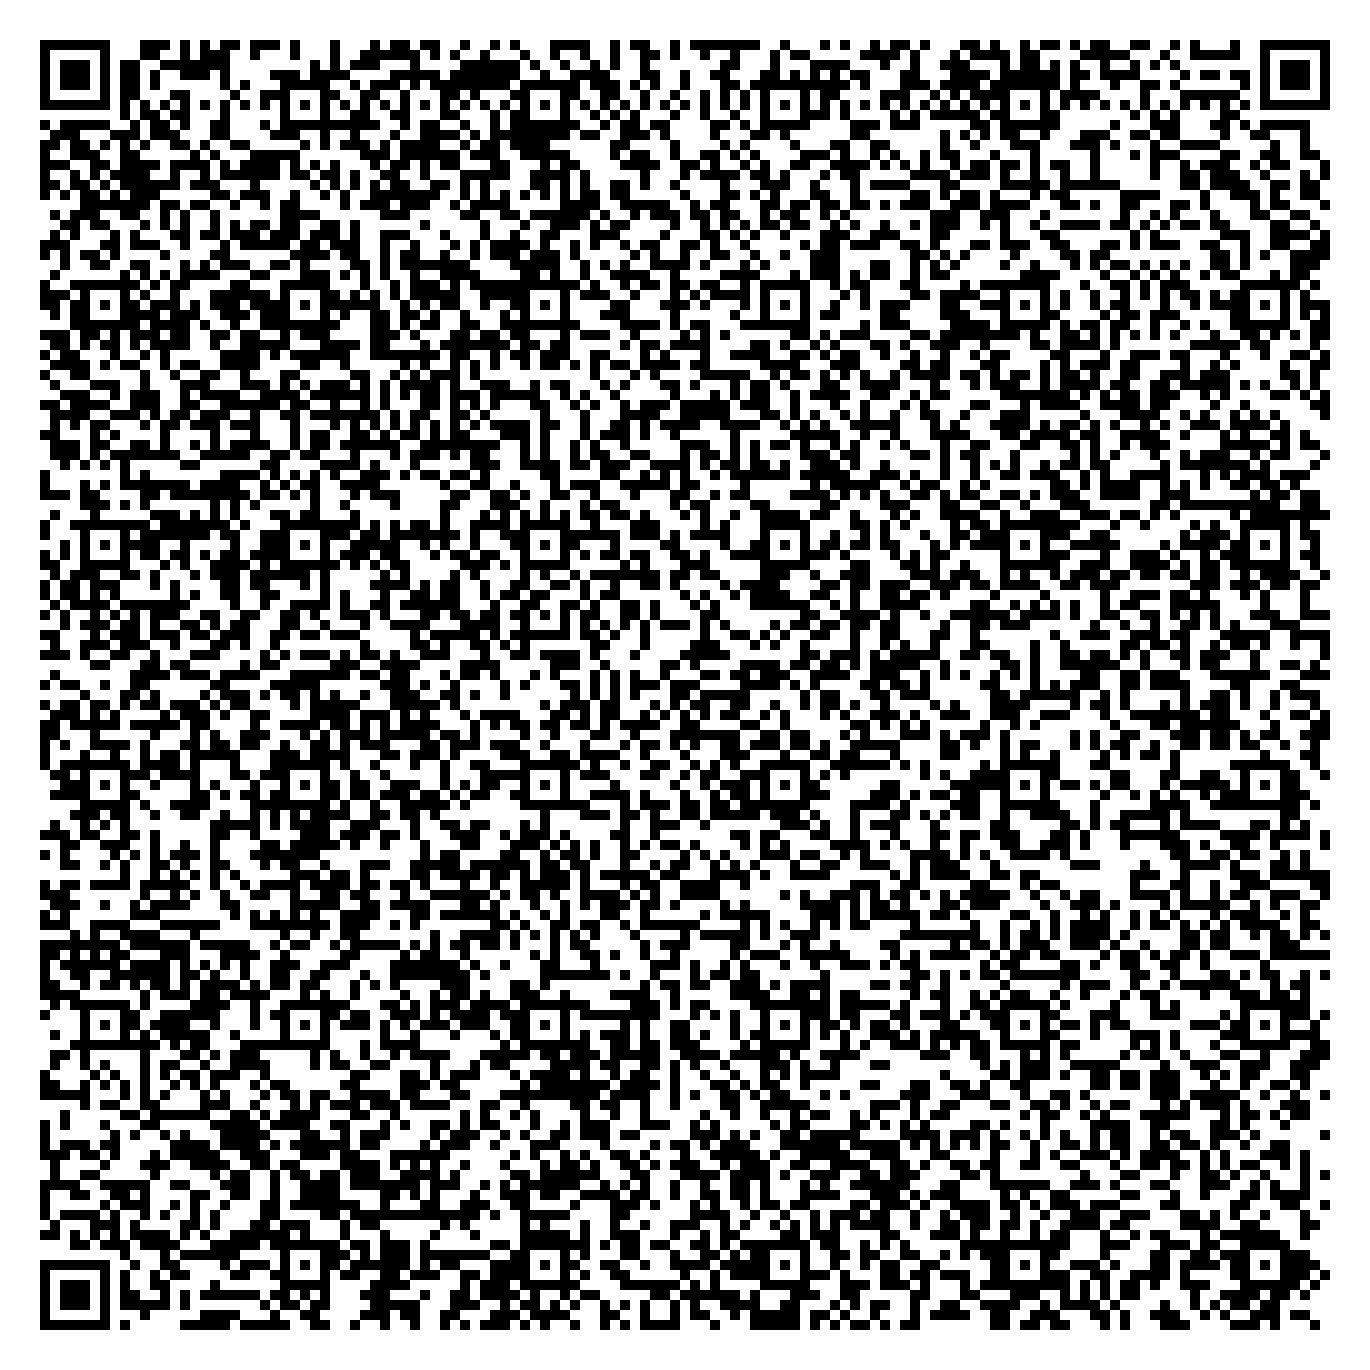
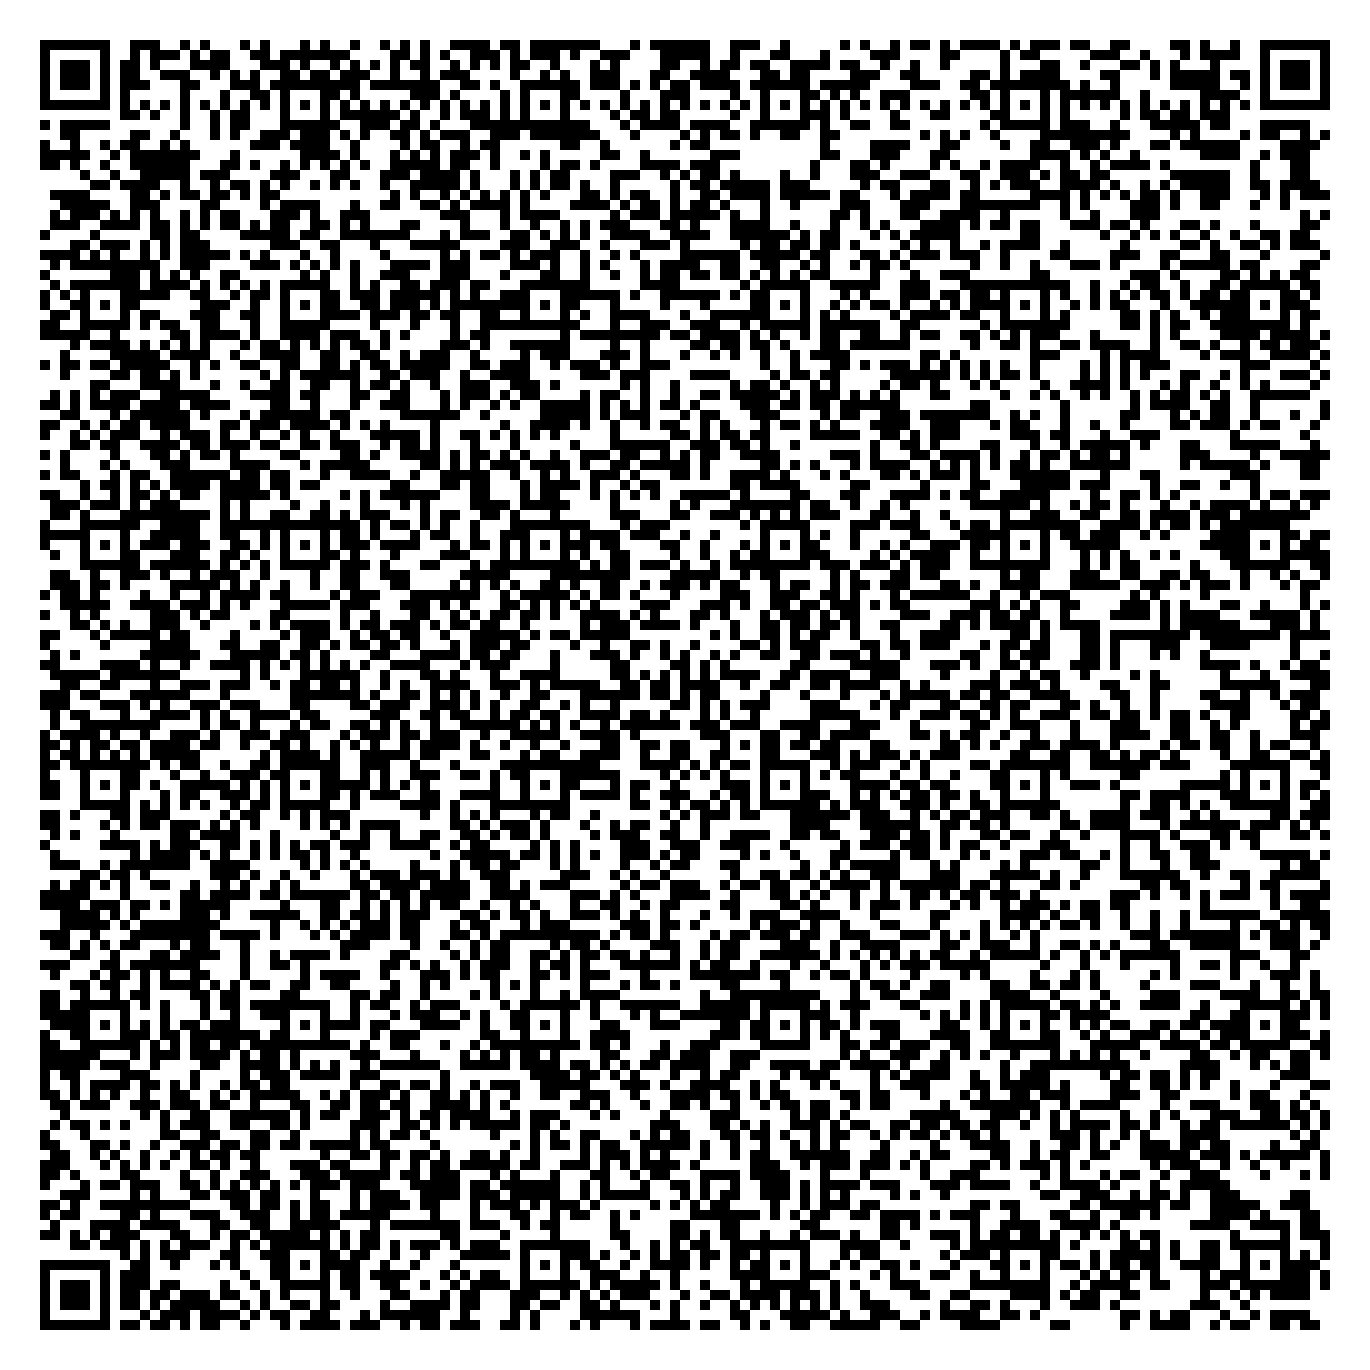
py qr

diff --git a/gen-scm-qr.py b/gen-scm-qr.py
@@ -2,9 +2,10 @@
 
 import qrcode
 
-SCHEME_DATA = open("file.scm")
+SCHEME_DATA = open("contest.scm").read()
 # comperession may be needed -- max of ~3k characters (?)
 # later comment -- we don't need to worry bc we will encode the URL, not sceme code
+# tldr; this is unused code!
 
 qr = qrcode.QRCode(error_correction=qrcode.constants.ERROR_CORRECT_L)
 qr.add_data(SCHEME_DATA)
